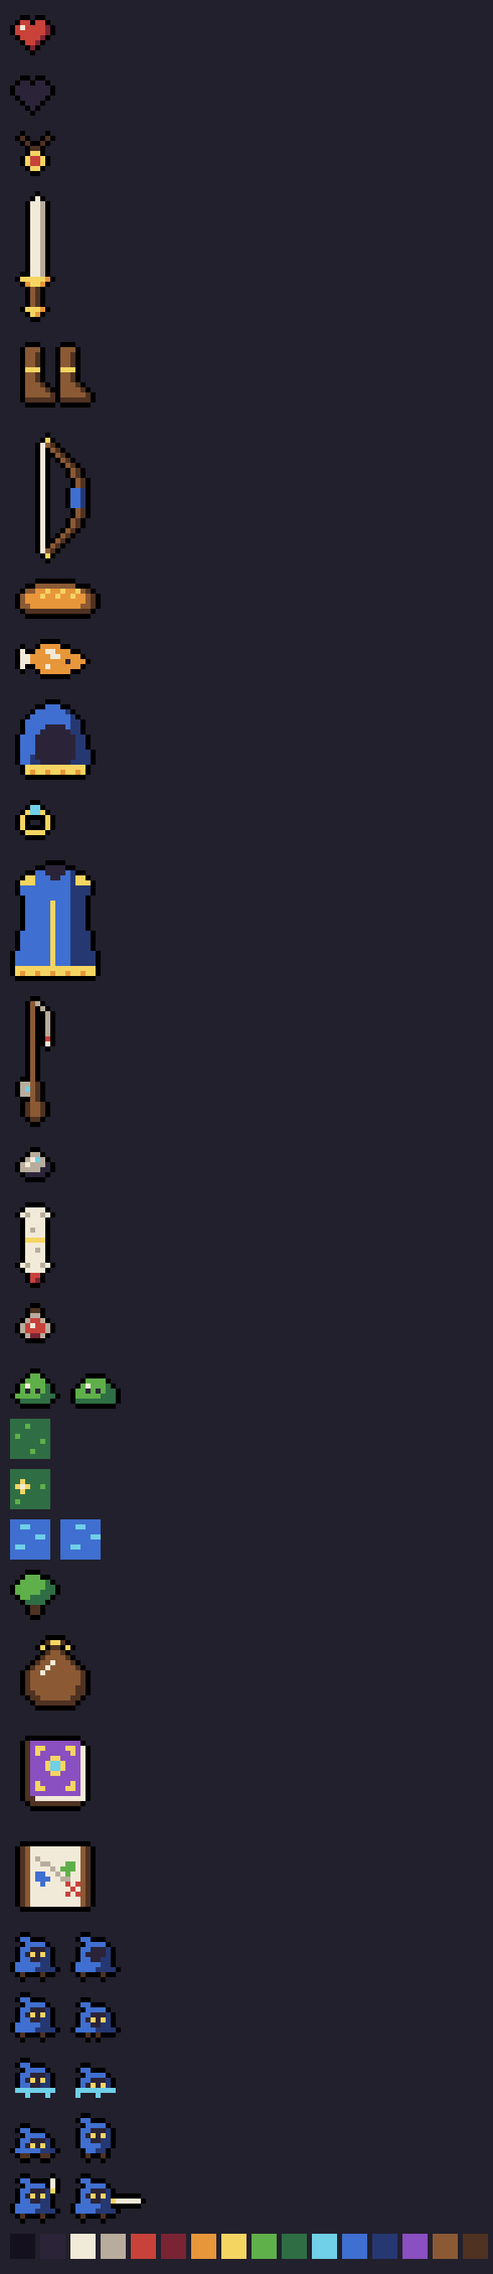
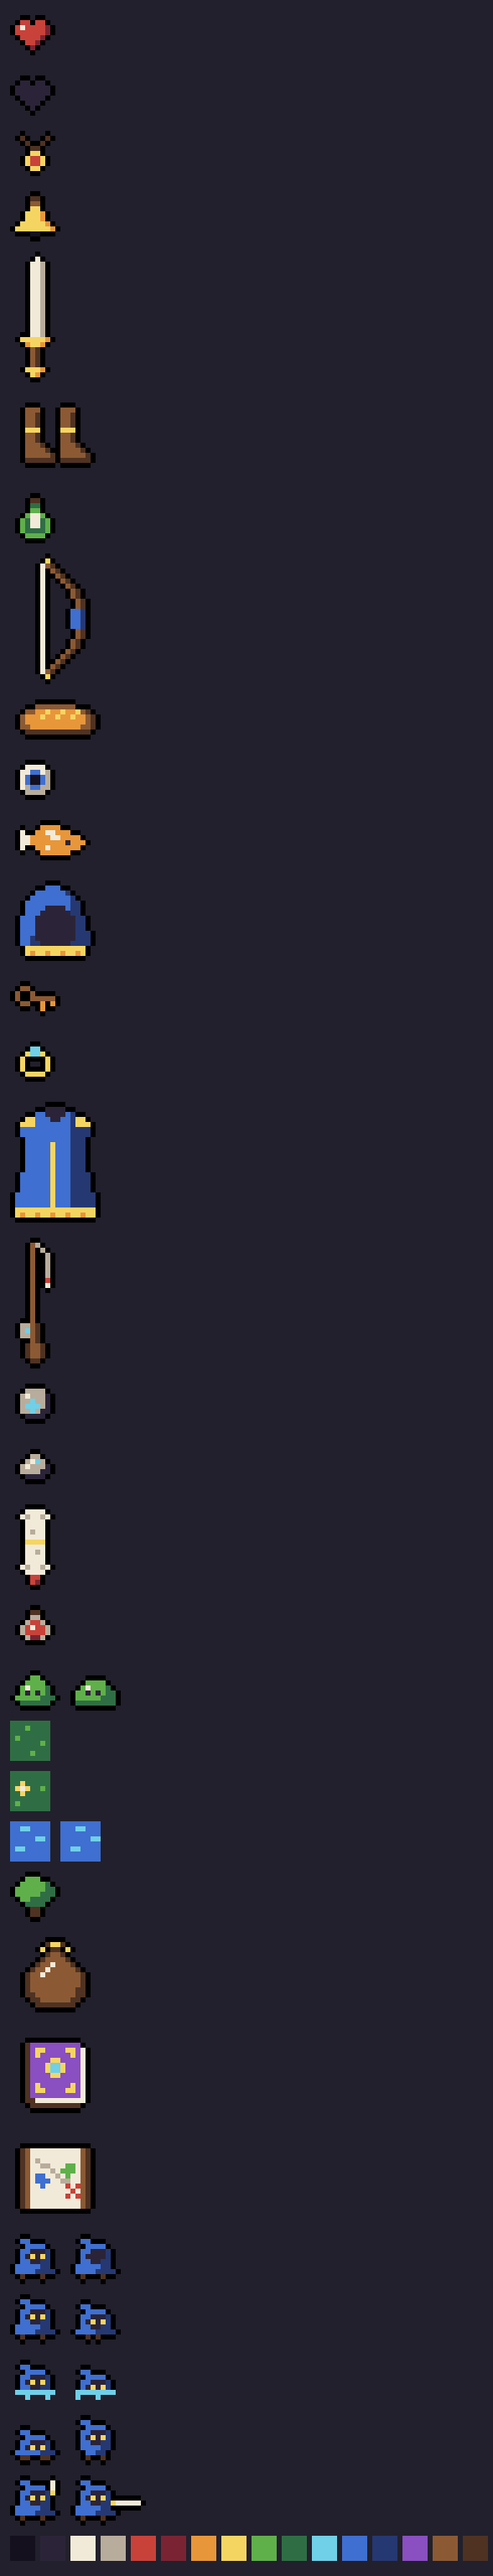
Curiosities to fish up: the mysterious stone and four more, each once, each with a line of its own
One catch in twenty is a curiosity instead of a koi, never one already in the bag (once you have them all,
it's koi again): the Mysterious Stone ("Maybe someone is interested in this..."), a Rusted Key, a Glass Eye,
a Sealed Bottle with a letter in your own hand, and a Little Handbell that rings itself at nine. Each has its
own icon and its own shape leaping from the water; the tooltip calls it a Curiosity and gives its line.

diff --git a/tests/curios.test.ts b/tests/curios.test.ts
@@ -1,0 +1,82 @@
+// Curiosities: one catch in twenty comes up something stranger than a koi, never one the hero's already carrying.
+import { describe, expect, it } from "vitest";
+import { CURIO_CHANCE, CURIO_IDS, CURIOS } from "../src/data/items.ts";
+import { T, Tile } from "../src/data/world.ts";
+import { createGame, setState, type Game } from "../src/game/game.ts";
+import { resetGame } from "../src/game/reset.ts";
+import { makeCurio, makeItem } from "../src/items/items.ts";
+import { step } from "../src/systems/index.ts";
+import { blocked } from "../src/world/collision.ts";
+
+const DT = 1 / 60;
+
+/** Rod in hand on the shore, with an empty bag. */
+function fisher(): { g: Game; toasts: string[] } {
+  const g = createGame();
+  resetGame(g);
+  setState(g, "play");
+  g.inventory.reset([makeItem("rod")]);
+  const toasts: string[] = [];
+  g.events.on("toast", t => toasts.push(t.text));
+  return { g, toasts };
+}
+
+/** A fish biting at the line; strike with every roll of the dice coming up `roll`. What came up? */
+function strike(g: Game, roll: number) {
+  let shore: { stand: { x: number; y: number }; water: { x: number; y: number } } | null = null;
+  for (let y = 1; y < g.map.height - 1 && !shore; y++) for (let x = 2; x < g.map.width - 1 && !shore; x++)
+    if (g.map.tiles[y]![x] === Tile.Water && g.map.tiles[y]![x - 2] === Tile.Grass && !blocked(g.map, (x - 2) * T, y * T, true))
+      shore = { stand: { x: (x - 2) * T, y: y * T }, water: { x: x * T, y: y * T } };
+  Object.assign(g.world.need(g.player, "transform"), shore!.stand);
+  const a = g.world.need(g.player, "actions");
+  a.fishing = { phase: "bite", x: shore!.water.x, y: shore!.water.y, t: 0, biteAt: 0 } as typeof a.fishing;
+  a.cooldown = 0;
+  const before = new Set(g.inventory.grid.map(e => e.item.id));
+  g.rng.next = () => roll;
+  g.input.attackPressed = true;
+  step(g, DT);
+  return { item: g.inventory.grid.map(e => e.item).find(i => !before.has(i.id))!, anim: a.catchAnim };
+}
+
+describe("curiosities", () => {
+  it("come up one catch in twenty", () => {
+    expect(CURIO_CHANCE).toBeCloseTo(1 / 20);
+  });
+
+  it("the mysterious stone says someone may be interested in it", () => {
+    expect(CURIOS.stone.name).toBe("Mysterious Stone");
+    expect(CURIOS.stone.note).toBe("Maybe someone is interested in this...");
+    const stone = makeCurio("stone");
+    expect(stone.curio).toBe("stone");
+    expect(stone.rarity).toBe("rare");
+  });
+
+  it("there are a few, each with a name and a line of its own", () => {
+    expect(CURIO_IDS.length).toBeGreaterThanOrEqual(5);
+    expect(new Set(CURIO_IDS.map(id => CURIOS[id].name)).size).toBe(CURIO_IDS.length);
+    for (const id of CURIO_IDS) expect(CURIOS[id].note.length).toBeGreaterThan(10);
+  });
+
+  it("when the roll goes their way, one comes up instead of a koi, and leaps out of the water as itself", () => {
+    const { g, toasts } = fisher(), { item, anim } = strike(g, 0);
+    expect(item.curio).toBeDefined();
+    expect(item.name).toBe(CURIOS[item.curio!].name);
+    expect(toasts).toContain(`Something heavy on the line... a ${item.name}!`);
+    expect(anim?.curio).toBe(item.curio);
+  });
+
+  it("never one he's already carrying: each comes up once, and then it's koi", () => {
+    const { g } = fisher(), found: string[] = [];
+    for (let i = 0; i < CURIO_IDS.length; i++) found.push(strike(g, 0).item.curio!);
+    expect(found.sort()).toEqual([...CURIO_IDS].sort());
+    const after = strike(g, 0);
+    expect(after.item.type).toBe("fish");
+    expect(after.anim?.curio ?? null).toBeNull();
+  });
+
+  it("otherwise it's a koi, as ever", () => {
+    const { g } = fisher(), { item, anim } = strike(g, 0.5);
+    expect(item.type).toBe("fish");
+    expect(anim?.curio ?? null).toBeNull();
+  });
+});

diff --git a/src/render/fishing.ts b/src/render/fishing.ts
@@ -4,6 +4,7 @@ import * as THREE from "three";
 import { PAL } from "../data/palette.ts";
 import { FISHING } from "../data/player.ts";
 import { TIERS } from "../data/tiers.ts";
+import type { CurioId } from "../data/items.ts";
 import type { Actions, Transform } from "../game/components.ts";
 import { GROUND, onGround, WATER_Y, col, toWorld, type RenderContext } from "./context.ts";
 import { makeKoiMesh } from "./koi.ts";
@@ -14,10 +15,31 @@ export interface FishingView {
   update(hero: Body, pos: Transform, a: Actions, t: number): { x: number; z: number } | null;
 }
 
-/** The mysterious stone, as it comes up out of the water: a smooth grey pebble with a faint blue-green glow about it. */
-function makeStoneMesh(ctx: RenderContext): THREE.Object3D {
-  return new THREE.Mesh(new THREE.IcosahedronGeometry(0.07, 0).scale(1.25, 0.8, 1),
-    ctx.lambert("#8a96a2", { emissive: col("#3fb8a8"), emissiveIntensity: 0.35 }));
+/** A curiosity as it comes up out of the water (see CURIOS): small, and each its own odd shape. */
+function makeCurioMesh(ctx: RenderContext, id: CurioId): THREE.Object3D {
+  const { lambert } = ctx, g = new THREE.Group();
+  const add = (geo: THREE.BufferGeometry, mat: THREE.Material, x = 0, y = 0, z = 0) => { const m = new THREE.Mesh(geo, mat); m.position.set(x, y, z); g.add(m); };
+  if (id === "stone") {                                      // a smooth grey pebble with a faint blue-green glow
+    add(new THREE.IcosahedronGeometry(0.07, 0).scale(1.25, 0.8, 1), lambert("#8a96a2", { emissive: col("#3fb8a8"), emissiveIntensity: 0.35 }));
+  } else if (id === "key") {                                 // a rusted key: its bow, shaft and bit
+    const rust = lambert("#9a5a2a");
+    add(new THREE.TorusGeometry(0.035, 0.012, 4, 8), rust, -0.06, 0, 0);
+    add(new THREE.BoxGeometry(0.1, 0.018, 0.018), rust, 0.02, 0, 0);
+    add(new THREE.BoxGeometry(0.018, 0.035, 0.018), rust, 0.06, -0.02, 0);
+  } else if (id === "eye") {                                 // a glass eye, its blue iris and black pupil
+    add(new THREE.SphereGeometry(0.06, 8, 6), lambert("#f2ead8"));
+    add(new THREE.CircleGeometry(0.03, 8).rotateY(Math.PI / 2), lambert("#3f6fd0"), 0.061, 0, 0);
+    add(new THREE.CircleGeometry(0.013, 6).rotateY(Math.PI / 2), lambert("#14101e"), 0.062, 0, 0);
+  } else if (id === "bottle") {                              // green glass, corked, a letter inside
+    add(new THREE.CylinderGeometry(0.04, 0.04, 0.11, 7), lambert("#5fb04a", { transparent: true, opacity: 0.6 }));
+    add(new THREE.CylinderGeometry(0.015, 0.02, 0.04, 6), lambert("#5fb04a", { transparent: true, opacity: 0.6 }), 0, 0.075, 0);
+    add(new THREE.CylinderGeometry(0.016, 0.016, 0.02, 6), lambert("#8b5a34"), 0, 0.1, 0);
+    add(new THREE.CylinderGeometry(0.018, 0.018, 0.07, 6), lambert("#f2ead8"));
+  } else {                                                   // a little brass handbell on its wooden handle
+    add(new THREE.ConeGeometry(0.05, 0.07, 8, 1, true), lambert("#f5d562", { side: THREE.DoubleSide }));
+    add(new THREE.CylinderGeometry(0.012, 0.012, 0.06, 5), lambert("#8b5a34"), 0, 0.06, 0);
+  }
+  return g;
 }
 
 export function createFishingView(ctx: RenderContext, world: THREE.Group): FishingView {
@@ -93,7 +115,7 @@ export function createFishingView(ctx: RenderContext, world: THREE.Group): Fishi
         if (leaperFor !== c) {
           if (leaper) world.remove(leaper);
           const T = TIERS[c.rarity];
-          leaper = c.stone ? makeStoneMesh(ctx) : makeKoiMesh(ctx, T.fishMain, T.fishAccent);
+          leaper = c.curio ? makeCurioMesh(ctx, c.curio) : makeKoiMesh(ctx, T.fishMain, T.fishAccent);
           leaper.scale.setScalar(2.2);
           world.add(leaper);
           leaperFor = c;

diff --git a/src/data/items.ts b/src/data/items.ts
@@ -2,7 +2,8 @@
 
 export type Rarity = "normal" | "magic" | "rare";
 export type Slot = "helm" | "amulet" | "weapon" | "armor" | "ring" | "boots";
-export type ItemType = "blade" | "hood" | "robe" | "boots" | "ring" | "amulet" | "bow" | "rod" | "fish" | "bread" | "stone" | "writ";
+export type ItemType = "blade" | "hood" | "robe" | "boots" | "ring" | "amulet" | "bow" | "rod" | "fish" | "bread" | "stone" | "writ"
+  | "runestone" | "key" | "eye" | "bottle" | "bell";
 export type StatKey = "damage" | "life" | "speed" | "dash";
 export type Stats = Partial<Record<StatKey, number>>;
 
@@ -34,6 +35,12 @@ export const BASES: Record<ItemType, ItemBase> = {
   bread:  { name: "Loaf", slot: null, w: 2, h: 1, base: {}, noLoot: true },
   stone:  { name: "Shiny Stone", slot: null, w: 1, h: 1, base: {}, noLoot: true, note: "A gift. It's yours now" },
   writ:   { name: "Writ", slot: null, w: 1, h: 2, base: {}, noLoot: true, note: "Under the King's seal. Show it to his woodwardens" },
+  // Curiosities: only ever fished up (see CURIOS), each with its own line.
+  runestone: { name: "Stone", slot: null, w: 1, h: 1, base: {}, noLoot: true },
+  key:       { name: "Key", slot: null, w: 1, h: 1, base: {}, noLoot: true },
+  eye:       { name: "Glass Eye", slot: null, w: 1, h: 1, base: {}, noLoot: true },
+  bottle:    { name: "Bottle", slot: null, w: 1, h: 1, base: {}, noLoot: true },
+  bell:      { name: "Handbell", slot: null, w: 1, h: 1, base: {}, noLoot: true },
 };
 
 /** Catches: rarity decides the koi and how much eating it heals. */
@@ -44,10 +51,19 @@ export const FISH: Record<Rarity, { name: string; heal: number }> = {
 };
 
 /**
- * Now and then it isn't a koi on the hook at all: a smooth grey stone, cold from the water but warm in the hand, that
- * hums faintly when you hold it to your ear. Nobody in Kingsholm can say what it is. One catch in twenty.
+ * Now and then it isn't a koi on the hook at all but something stranger, lost in the water who knows how: one catch
+ * in twenty (CURIO_CHANCE) is one of these, never one you're already carrying. Each says something of itself.
  */
-export const MYSTERIOUS_STONE = { name: "Mysterious Stone", chance: 1 / 20 } as const;
+export type CurioId = "stone" | "key" | "eye" | "bottle" | "bell";
+export const CURIOS: Record<CurioId, { type: ItemType; name: string; note: string }> = {
+  stone:  { type: "runestone", name: "Mysterious Stone", note: "Maybe someone is interested in this..." },
+  key:    { type: "key", name: "Rusted Key", note: "It must open something. Somewhere." },
+  eye:    { type: "eye", name: "Glass Eye", note: "Someone must be missing it. It seems to be looking for them." },
+  bottle: { type: "bottle", name: "Sealed Bottle", note: "There's a letter inside. The handwriting looks like yours." },
+  bell:   { type: "bell", name: "Little Handbell", note: "It rings at nine every night, though nobody rings it." },
+};
+export const CURIO_IDS = Object.keys(CURIOS) as CurioId[];
+export const CURIO_CHANCE = 1 / 20;
 
 /** What people give the hero when they talk to him: the gift lines in src/data/voices.ts say which. */
 export type GiftKind = "loaf" | "koi" | "stone" | "writ";

diff --git a/src/systems/fishing.ts b/src/systems/fishing.ts
@@ -1,14 +1,20 @@
 // The fishing pole: press winds up a cast, release throws it at the cursor. Over water the line
 // goes out: wait for a bite, then click during the bite to catch. Released over land, it's a weak bonk.
-import { CATCH_ODDS, MYSTERIOUS_STONE, type Rarity } from "../data/items.ts";
+import { CATCH_ODDS, CURIO_CHANCE, CURIO_IDS, type CurioId, type Rarity } from "../data/items.ts";
 import { FISHING } from "../data/player.ts";
 import { HALF, Tile } from "../data/world.ts";
 import { toast, type Game } from "../game/game.ts";
 import { sound } from "../game/sfx.ts";
 import { heroParts, weaponOf, type HeroParts } from "../game/hero.ts";
 import { dropLoot } from "../game/spawn.ts";
-import { makeFish, makeMysteriousStone } from "../items/items.ts";
+import { makeCurio, makeFish } from "../items/items.ts";
 import { tileAt, type Point } from "../world/collision.ts";
+
+/** A curiosity still in the water for the hero to find: one he isn't already carrying (none, once he has them all). */
+function curioToFind(g: Game): CurioId | null {
+  const left = CURIO_IDS.filter(id => !g.inventory.grid.some(e => e.item.curio === id));
+  return left.length ? left[g.rng.int(0, left.length - 1)]! : null;
+}
 
 /** Where a cast would land: exactly at the cursor, pulled in to the pole's reach. Without a mouse it goes 3 tiles along the aim. */
 export function castTarget(h: HeroParts, pointer: Point | null): Point {
@@ -37,12 +43,12 @@ export function fishingSystem(g: Game, dt: number): void {
     if (input.attackPressed) {
       const r = g.rng.next();
       const rarity: Rarity = r < CATCH_ODDS.rare ? "rare" : r < CATCH_ODDS.magic ? "magic" : "normal";
-      const stone = g.rng.next() < MYSTERIOUS_STONE.chance;   // now and then, something that isn't a fish at all
-      const item = stone ? makeMysteriousStone() : makeFish(rarity);
+      const curio = g.rng.next() < CURIO_CHANCE ? curioToFind(g) : null;   // now and then, something that isn't a fish at all
+      const item = curio ? makeCurio(curio) : makeFish(rarity);
       if (!g.inventory.add(item)) dropLoot(g, pos.x, pos.y, item, true);
       sound(g, "catch");
-      a.catchAnim = { x: f.x, y: f.y, t0: g.clock, rarity, stone };
-      toast(g, stone ? `Something heavy on the line... a ${item.name}!` : `Caught a ${item.name}!`, true);
+      a.catchAnim = { x: f.x, y: f.y, t0: g.clock, rarity, curio };
+      toast(g, curio ? `Something heavy on the line... a ${item.name}!` : `Caught a ${item.name}!`, true);
       a.fishing = null;
     } else if (f.t >= FISHING.biteWindow) {
       toast(g, "It got away");

diff --git a/src/ui/tooltip.ts b/src/ui/tooltip.ts
@@ -1,5 +1,5 @@
 // Item tooltips, PoE style: name in the rarity colour, base type, slot, stats and affixes.
-import { AFFIXES, BASES, BASE_TEXT, SLOTS, type StatKey } from "../data/items.ts";
+import { AFFIXES, BASES, BASE_TEXT, CURIOS, SLOTS, type StatKey } from "../data/items.ts";
 import type { Item } from "../items/items.ts";
 import { byId } from "./dom.ts";
 
@@ -28,11 +28,11 @@ export function createTooltip(): Tooltip {
 
   return {
     show(item, mouse) {
-      const lines = [line(`tip-name rarity-${item.rarity}`, item.name)];
-      if (item.rarity !== "normal") lines.push(line("tip-base", BASES[item.type].name));
-      lines.push(line("tip-slot", item.slot ? SLOTS[item.slot].label : item.heal ? "Food" : "Keepsake"));
+      const lines = [line(`tip-name rarity-${item.rarity}`, item.name)], curio = item.curio ? CURIOS[item.curio] : null;
+      if (item.rarity !== "normal" && !curio) lines.push(line("tip-base", BASES[item.type].name));
+      lines.push(line("tip-slot", item.slot ? SLOTS[item.slot].label : item.heal ? "Food" : curio ? "Curiosity" : "Keepsake"));
       if (item.heal) lines.push(line("tip-stat", `Restores ${item.heal} Life`), line("tip-note", "Right-click to eat"));
-      const note = BASES[item.type].note;
+      const note = curio ? curio.note : BASES[item.type].note;
       if (note) lines.push(line("tip-note", note));
       for (const [k, v] of Object.entries(item.base) as [StatKey, number][]) {
         const text = BASE_TEXT[k];

diff --git a/src/items/items.ts b/src/items/items.ts
@@ -1,5 +1,5 @@
 import type { Rng } from "../core/rng.ts";
-import { AFFIXES, BASES, FISH, GIFTS, MYSTERIOUS_STONE, RARE_A, RARE_B, RARITY_ODDS, type GiftKind, type ItemType, type Rarity, type Slot, type StatKey, type Stats } from "../data/items.ts";
+import { AFFIXES, BASES, CURIOS, FISH, GIFTS, RARE_A, RARE_B, RARITY_ODDS, type CurioId, type GiftKind, type ItemType, type Rarity, type Slot, type StatKey, type Stats } from "../data/items.ts";
 
 export interface Item {
   id: number;
@@ -15,6 +15,8 @@ export interface Item {
   mods: Stats;
   /** Food only: hearts restored when eaten. */
   heal?: number;
+  /** A curiosity fished up (see CURIOS): which one. */
+  curio?: CurioId;
 }
 
 let nextId = 1;
@@ -60,9 +62,11 @@ export function makeFish(rarity: Rarity): Item {
   return item;
 }
 
-/** The mysterious stone that sometimes comes up on the line instead of a koi. */
-export function makeMysteriousStone(): Item {
-  return makeItem("stone", "rare", {}, MYSTERIOUS_STONE.name);
+/** A curiosity that sometimes comes up on the line instead of a koi. */
+export function makeCurio(id: CurioId): Item {
+  const item = makeItem(CURIOS[id].type, "rare", {}, CURIOS[id].name);
+  item.curio = id;
+  return item;
 }
 
 /** Something someone hands the hero as they talk: a loaf, a koi, a shiny stone. */

diff --git a/src/game/components.ts b/src/game/components.ts
@@ -1,7 +1,7 @@
 // Components: plain data, no behaviour. Systems in src/systems read and write them.
 // Every position is the top-left of an 8x8 cell, in game pixels; add HALF for the cell's centre.
 import type { BoltKind, School, SpellName } from "../data/enemies.ts";
-import type { Rarity } from "../data/items.ts";
+import type { CurioId, Rarity } from "../data/items.ts";
 import type { Gear } from "../items/inventory.ts";
 import type { Item } from "../items/items.ts";
 import type { Entity } from "../core/ecs.ts";
@@ -91,8 +91,8 @@ export interface CatchAnim {
   y: number;
   t0: number;
   rarity: Rarity;
-  /** It wasn't a koi but the mysterious stone. */
-  stone?: boolean;
+  /** It wasn't a koi but a curiosity: which. */
+  curio?: CurioId | null;
 }
 
 /** What the hero is doing with their hands: swings, punches, the bow and the fishing pole. */

diff --git a/src/data/tiers.ts b/src/data/tiers.ts
@@ -86,6 +86,8 @@ export const ICON_SWAPS: Record<ItemType, Partial<Record<string, keyof TierColor
   bread:  {},
   stone:  {},
   writ:   {},
+  // Curiosities keep their own colours.
+  runestone: {}, key: {}, eye: {}, bottle: {}, bell: {},
 };
 
 /** Rarity colours for ground loot, labels and tooltips. */
